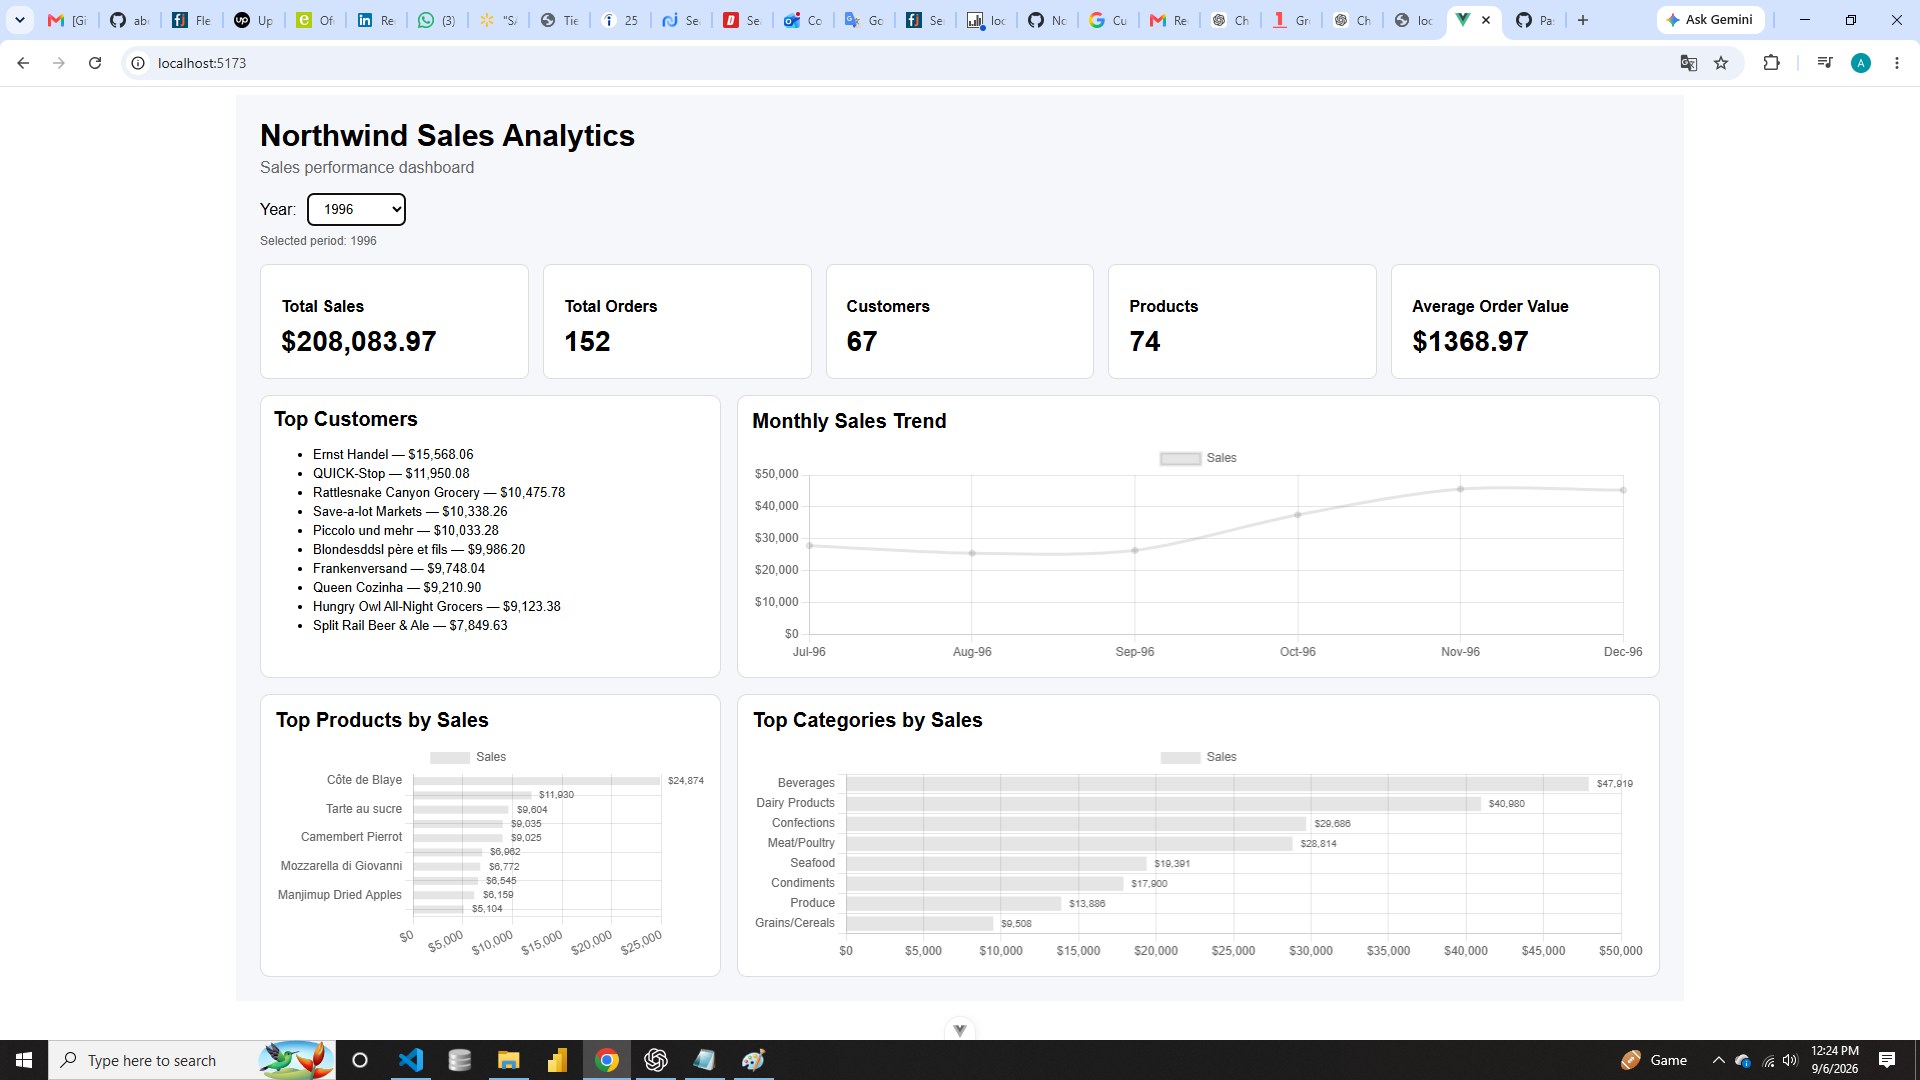
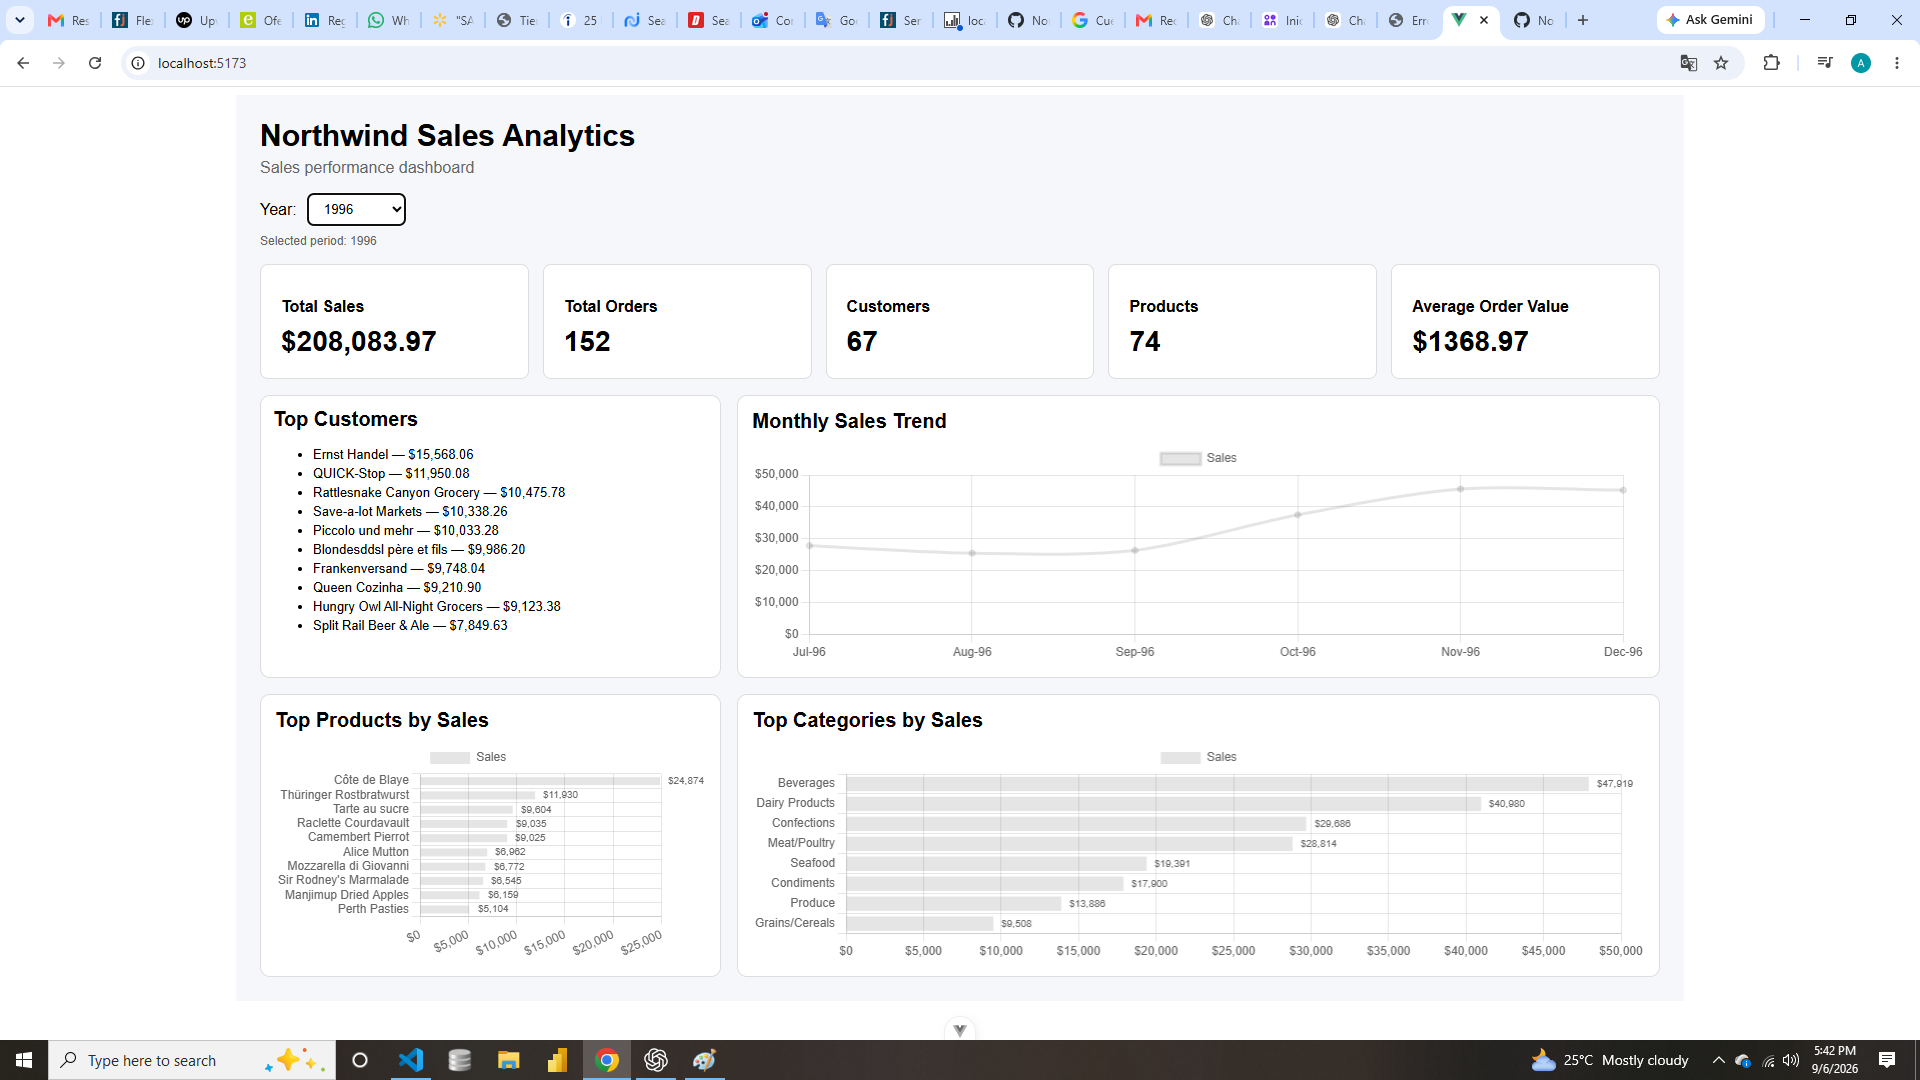
Fix Top Products chart labels

diff --git a/src/components/TopProducts.vue b/src/components/TopProducts.vue
@@ -87,6 +87,12 @@ const chartOptions = {
   },
 
   scales: {
+  y: {
+    ticks: {
+      autoSkip: false
+    }
+  },
+
     x: {
       beginAtZero: true,
 
